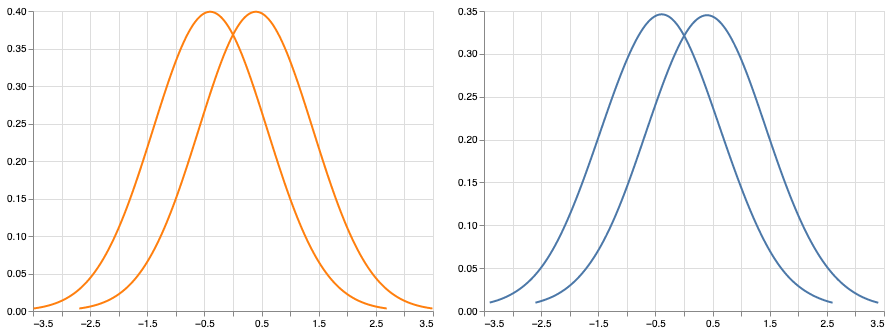
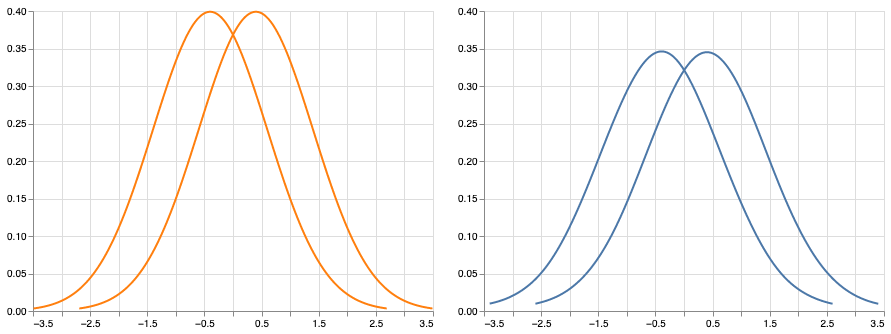
equal Y axis for power figure

diff --git a/papers/allan_campopiano/paper.rst b/papers/allan_campopiano/paper.rst
@@ -86,7 +86,7 @@ are not discussed in this article. Interested readers should see Wilcox's
    :align: center
 
    Two normal curves (left) and two contaminated normal curves (right).
-   Despite the obvious effect sizes (:math:`\Delta=0.8`)
+   Despite the obvious effect sizes (:math:`\Delta=0.8` for both pairs)
    as well as the visual similarities of the distributions,
    power is only ~0.25 under contamination; however,
    power is ~0.94 under normality (using Student's t-test). :label:`power`
